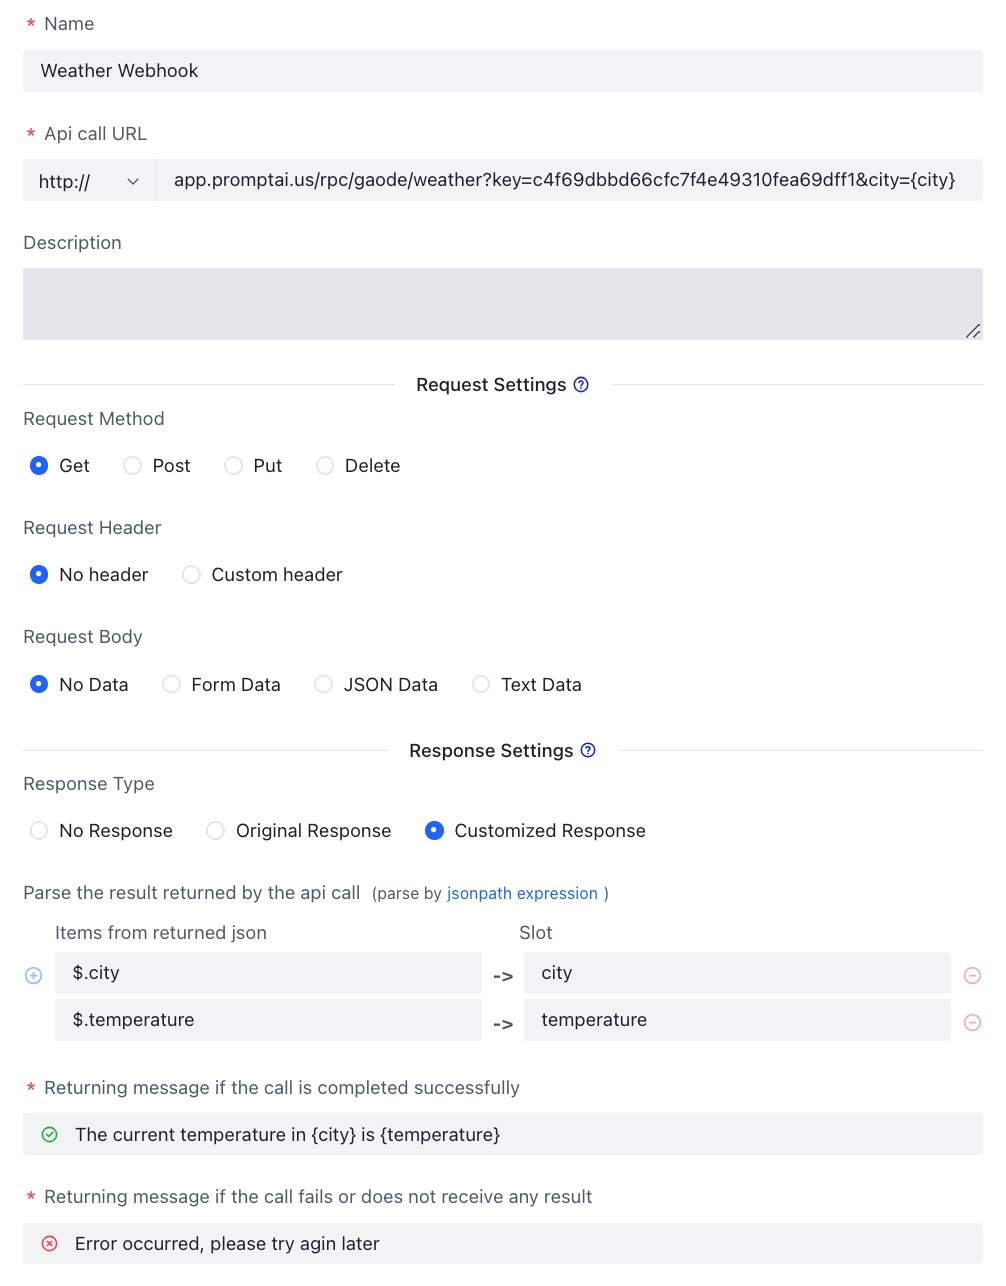
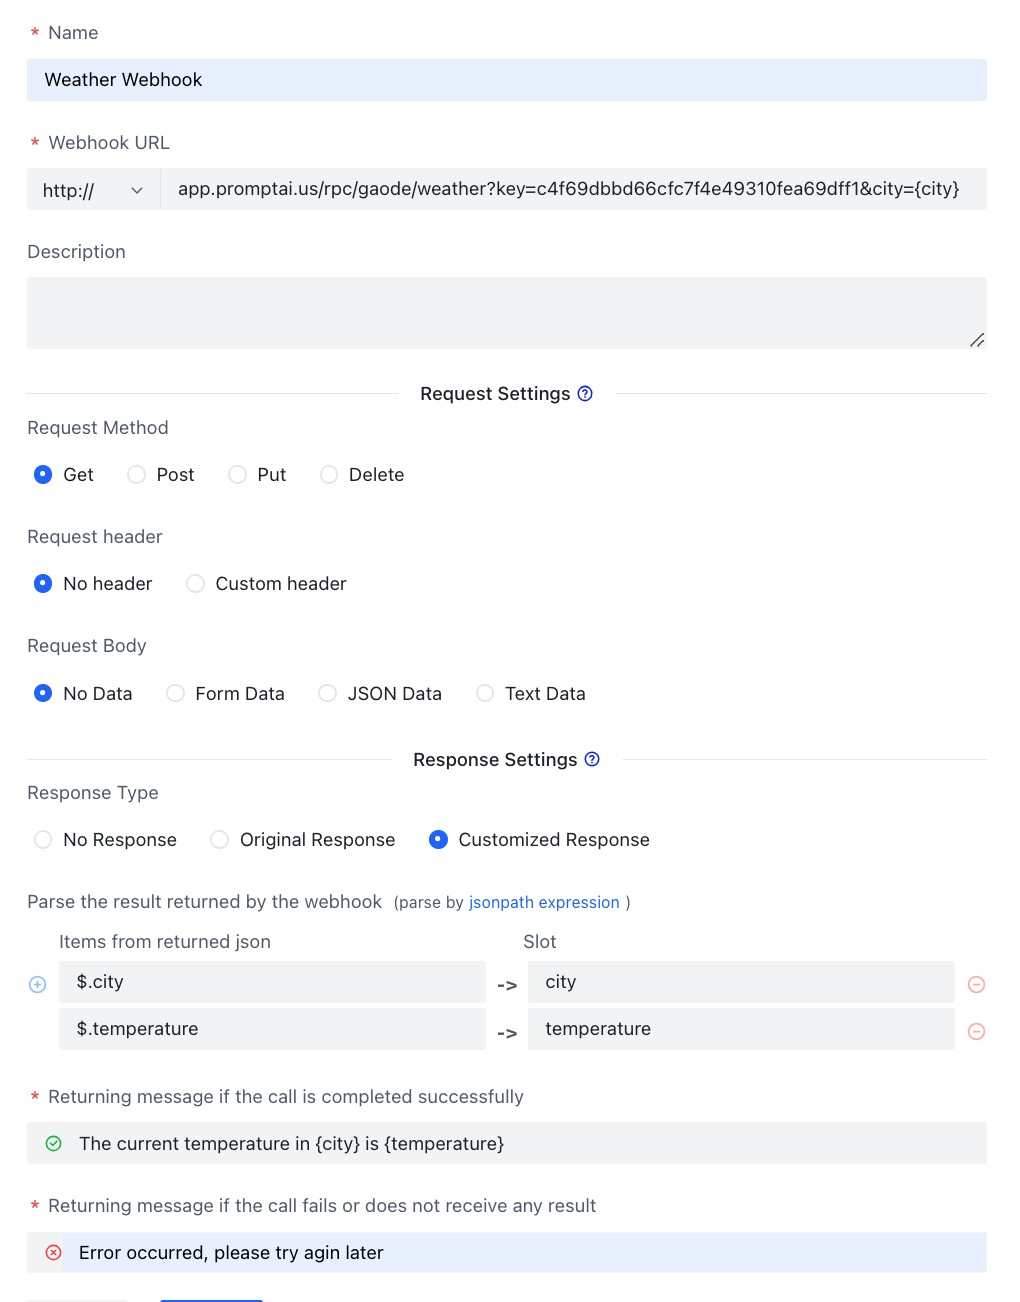
update concept webhook `s images

diff --git a/docs/webhook/01-webhook.md b/docs/webhook/01-webhook.md
@@ -69,7 +69,7 @@ These settings handle the result received from the third party API call and pack
 
 Due to many factors, sometimes the API call fails.  We need to send a hint to the user when the webhook request fails. Note that this situation is different from an empty result returned by the API call.  Set a short message at `Returning message if the call fails or does not receive any result`.
 
-![webhook6.png](/assets/images/tutorial/webhook/webhook6.png)
+![webhook6.png](/assets/images/webhook_weather_response_setting.jpg)
 
 Take the weather query as an example.  Suppose there is a weather service that responds with:
 ```json
@@ -119,7 +119,7 @@ The above process needs a step to extract values from the API call and fill them
 ```
 We shall do the following JsonPath refernece and map the value to the slots in Rasa. 
 
-![52-webhook](/assets/images/tutorial/webhook/webhook3.png)
+![52-webhook](/assets/images/webhook_weather_response_overview.jpg)
 
 
 <!---
